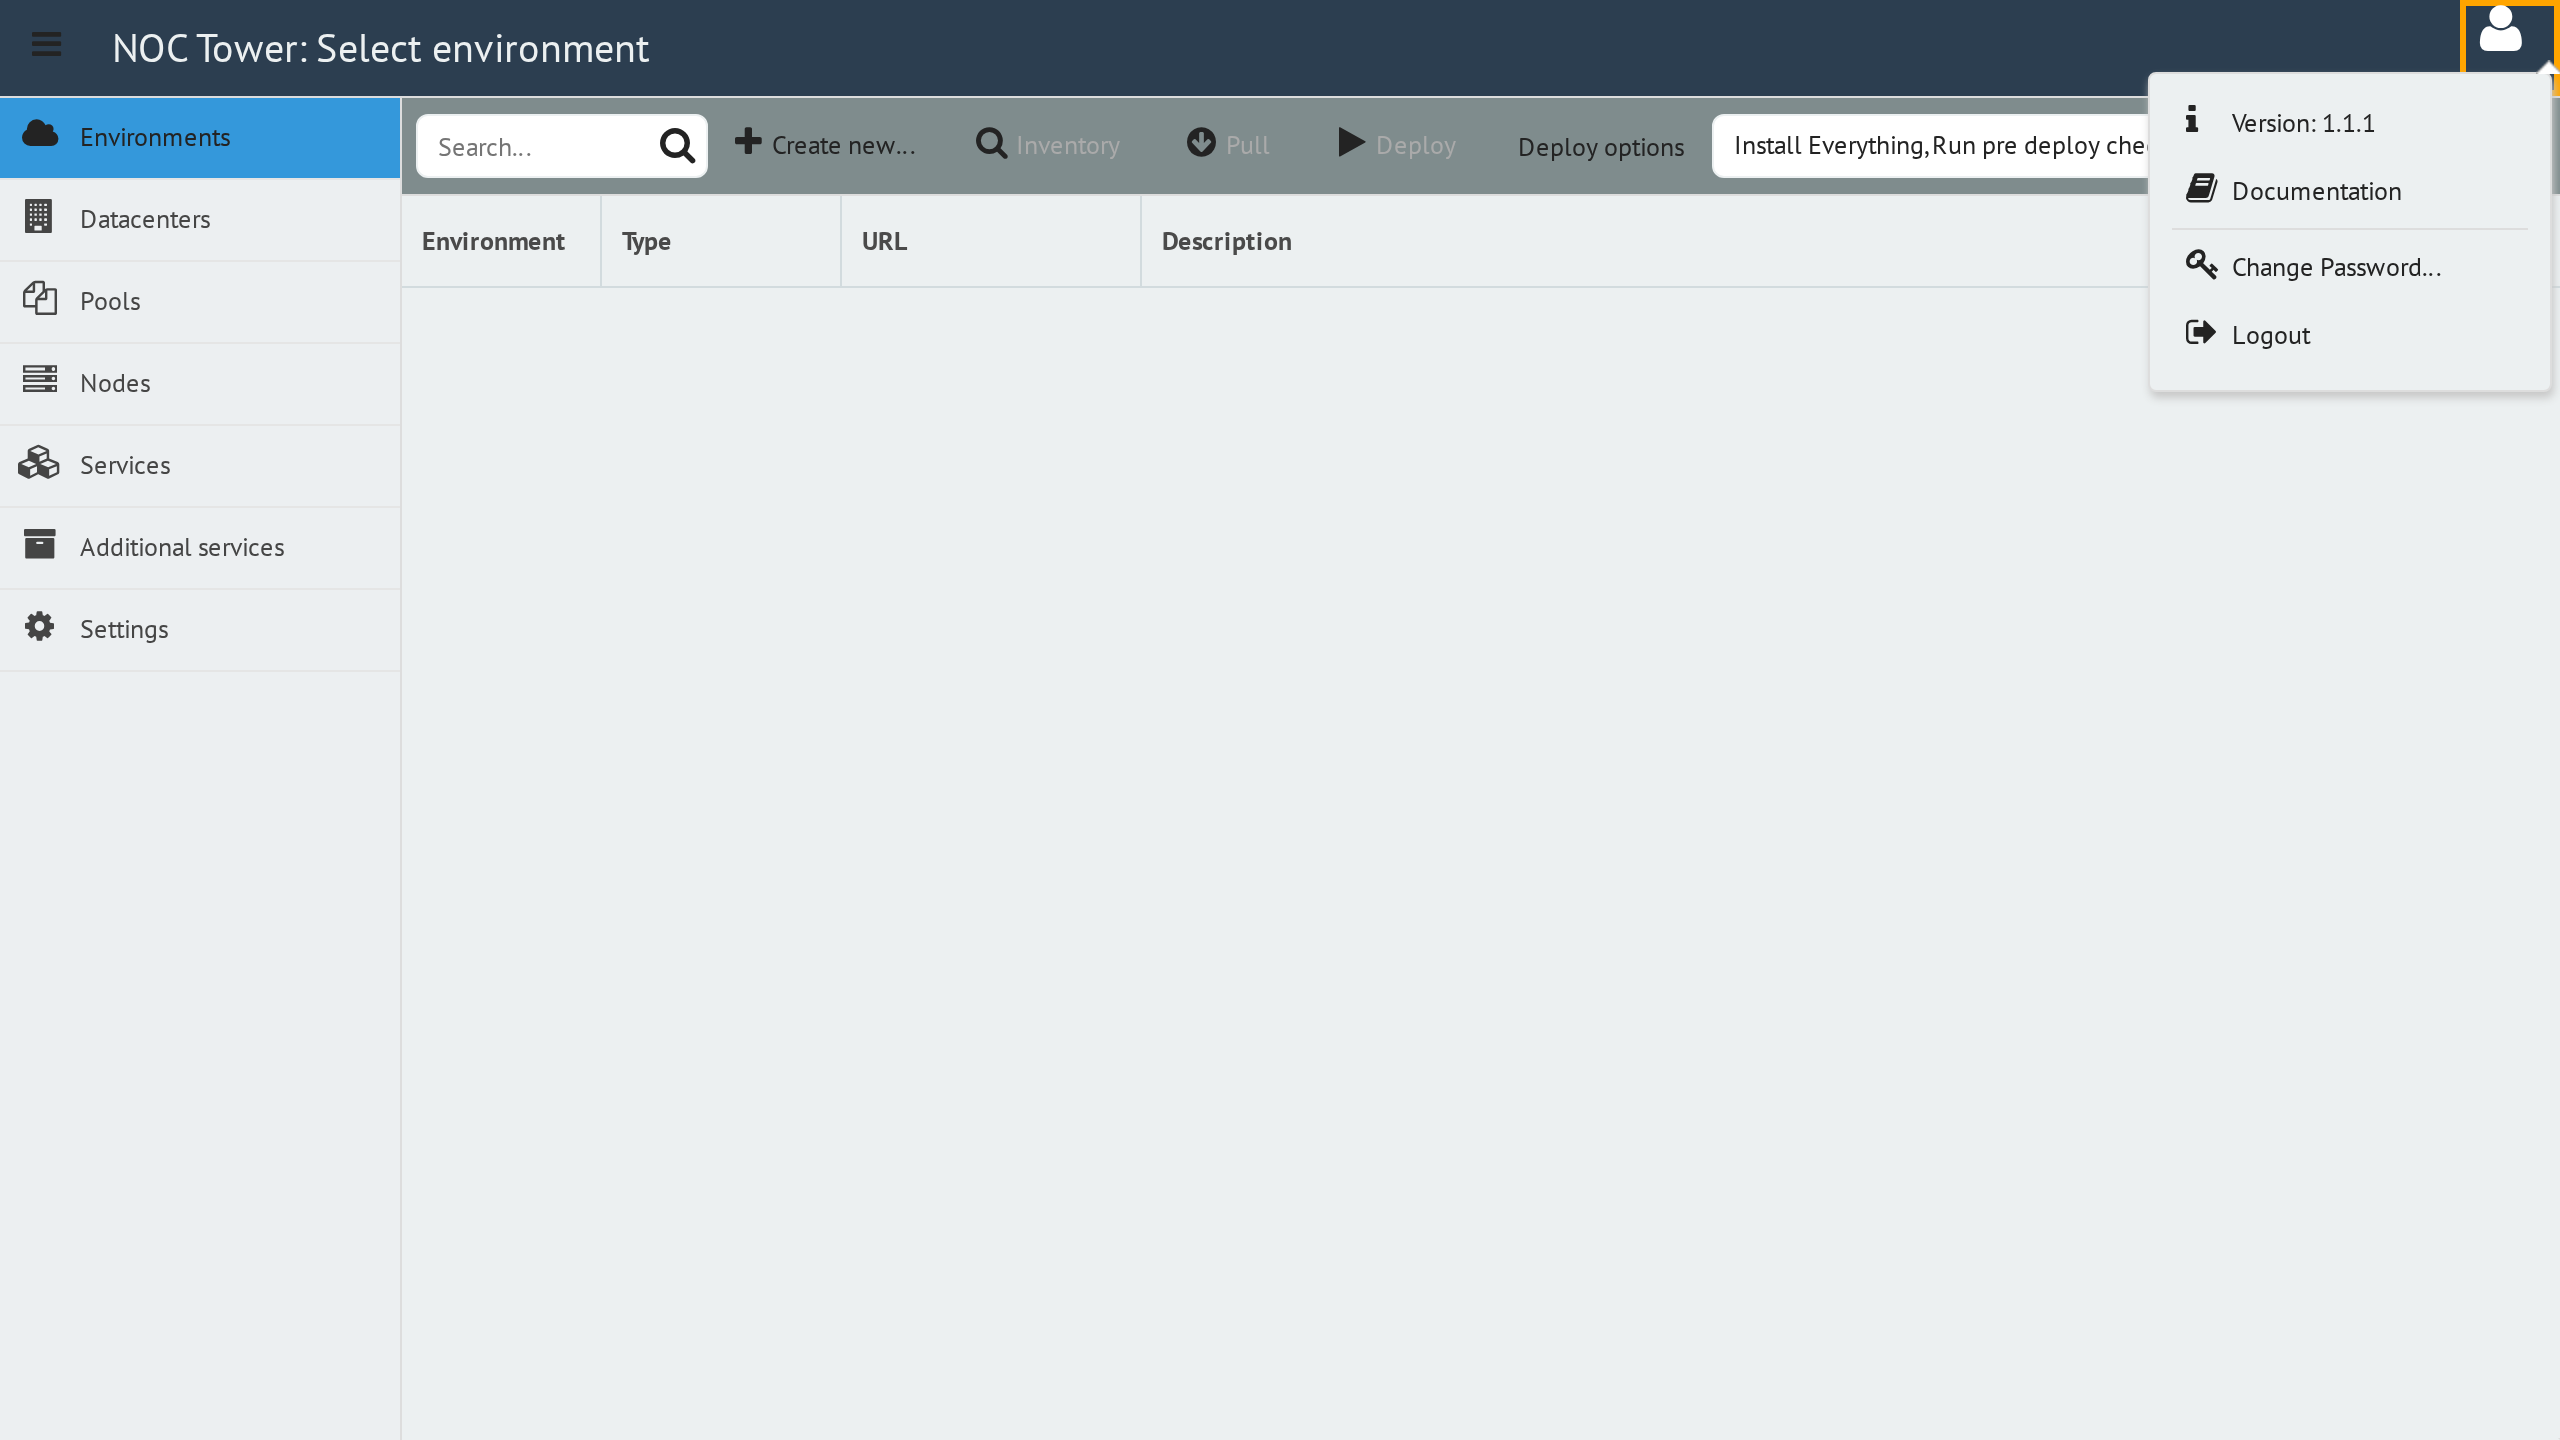
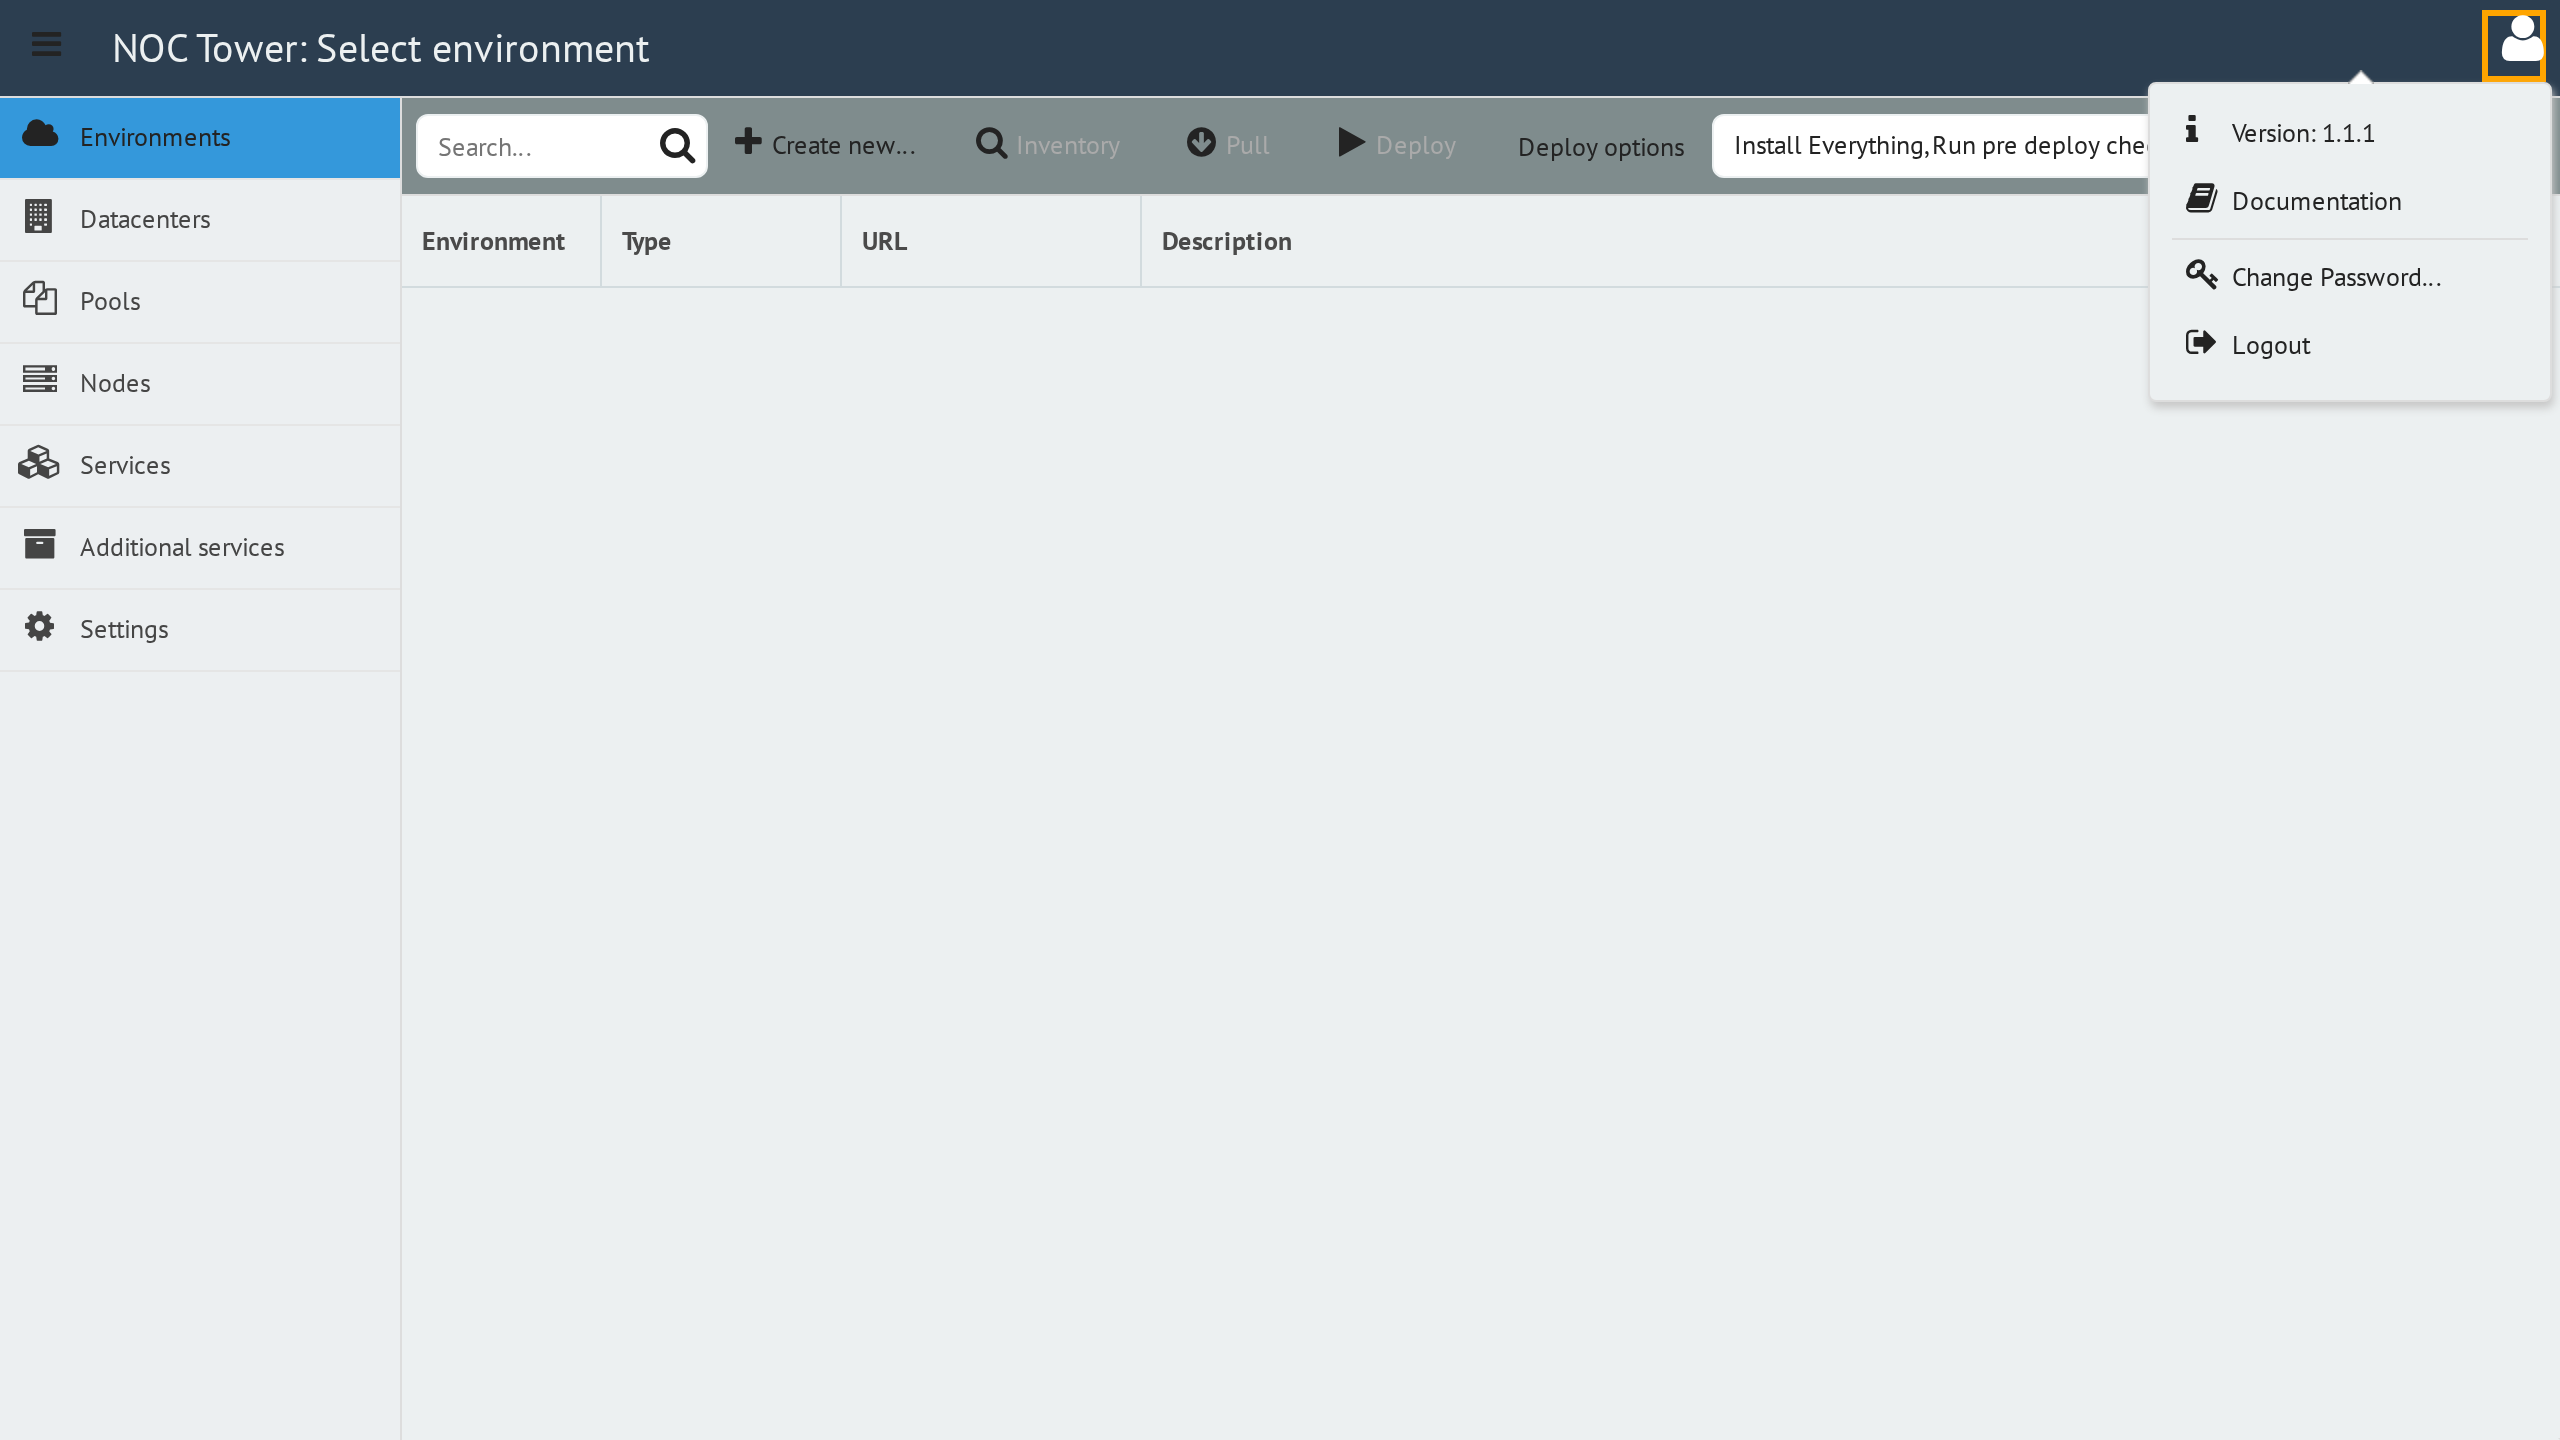
Align user manu button

Changed region(s): [[0.8438, 0.1875, 1.0, 0.2812], [0.8438, 0.0, 1.0, 0.0938], [0.8438, 0.125, 0.9375, 0.1562]]

diff --git a/src/ui/desktop_ui.js b/src/ui/desktop_ui.js
@@ -43,50 +43,50 @@ export const desktop = {
                             id: "environment_label",
                             view: "label",
                             label: "NOC Tower: Select environment"
+                        },
+                        {
+                            view: "menu",
+                            id: "desktop_menu",
+                            height: "auto",
+                            width: 32,
+                            submenuConfig: {
+                                width: 200
+                            },
+                            data: [
+                                {
+                                    id: "user_menu",
+                                    icon: "menu_user",
+                                    css: "app_button",
+                                    submenu: [
+                                        {
+                                            id: "version",
+                                            icon: "info",
+                                            value: `Version: ${version}`
+                                        },
+                                        {
+                                            id: "docs",
+                                            icon: "book",
+                                            value: "Documentation"
+                                        },
+                                        { $template: "Separator" },
+                                        {
+                                            id: "change_password",
+                                            value: "Change Password...",
+                                            icon: "key"
+                                        },
+                                        {
+                                            id: "logout",
+                                            value: "Logout",
+                                            icon: "sign-out"
+                                        },
+                                    ]
+                                }
+                            ],
+                            on: {
+                                onMenuItemClick: desktop_logic.on_menu_click
+                            }
                         }
                     ]
-                },
-                {
-                    view: "menu",
-                    id: "desktop_menu",
-                    height: "auto",
-                    width: 50,
-                    submenuConfig: {
-                        width: 200
-                    },
-                    data: [
-                        {
-                            id: "user_menu",
-                            icon: "menu_user",
-                            css: "app_button",
-                            submenu: [
-                                {
-                                    id: "version",
-                                    icon: "info",
-                                    value: `Version: ${version}`
-                                },
-                                {
-                                    id: "docs",
-                                    icon: "book",
-                                    value: "Documentation"
-                                },
-                                { $template: "Separator" },
-                                {
-                                    id: "change_password",
-                                    value: "Change Password...",
-                                    icon: "key"
-                                },
-                                {
-                                    id: "logout",
-                                    value: "Logout",
-                                    icon: "sign-out"
-                                },
-                            ]
-                        }
-                    ],
-                    on: {
-                        onMenuItemClick: desktop_logic.on_menu_click
-                    }
                 }
             ]
         },
